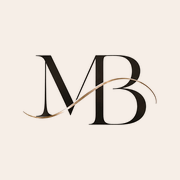
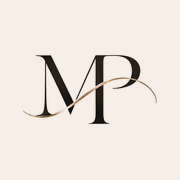
Nouvelle identité : « Mélanie Photographie » et monogramme MP
- Le site s'appelle désormais « Mélanie Photographie » : config, titres,
  descriptions, en-tête, accueil, pied de page, JSON-LD, llms.txt,
  manifeste, textes alternatifs des photos, page Mon univers.
- Monogramme MB → MP : le B est devenu un P (même hampe, même boucle
  haute, pied symétrisé) dans le monogramme, le logo rond, l'image de
  partage et les icônes du site. Fichiers renommés (monogramme-mp,
  logo-mp-photographie).
- Pages légales : le nom de famille est remplacé par un champ
  « [À compléter : prénom et nom] », obligatoire pour l'éditeur du site.
- Classe .prose-mb renommée .prose-mp.

Claude-Session: https://claude.ai/code/session_01C5YcTmXuq4d5R7qKZMAnsd

diff --git a/resources/js/pages/Accueil.vue b/resources/js/pages/Accueil.vue
@@ -43,7 +43,7 @@ const mosaique = computed(() => (props.photos.mosaique.length ? props.photos.mos
 <template>
     <Seo
         titre="Photographe grossesse, nouveau-né & famille à Dijon"
-        :description="`Mélanie Brieu, photographe grossesse, nouveau-né et famille à Dijon et Chenôve. Des images douces et naturelles pour garder vos plus beaux moments de vie. Offre de lancement dès ${euros(prixMini)}.`"
+        :description="`Mélanie Photographie : photographe grossesse, nouveau-né et famille à Dijon et Chenôve. Des images douces et naturelles pour garder vos plus beaux moments de vie. Offre de lancement dès ${euros(prixMini)}.`"
         :json-ld="entrepriseJsonLd(site)"
     />
 
@@ -53,9 +53,10 @@ const mosaique = computed(() => (props.photos.mosaique.length ? props.photos.mos
             <div class="relative order-2 flex items-center px-5 py-16 sm:px-12 lg:order-1 lg:py-20">
                 <Fleur variante="gypsophile" class="absolute -top-8 -left-12 -z-10 w-44 opacity-80 sm:w-60" />
                 <div class="mx-auto max-w-lg text-center lg:text-left">
-                    <img src="/images/marque/monogramme-mb.webp" width="480" height="253" alt="" class="mx-auto h-14 w-auto lg:mx-0" />
+                    <img src="/images/marque/monogramme-mp.webp" width="480" height="252" alt="" class="mx-auto h-14 w-auto lg:mx-0" />
                     <h1 class="mt-8">
-                        <span class="block font-serif text-[2.9rem] leading-[1.05] tracking-[0.16em] text-cacao-800 uppercase sm:text-6xl"><span class="block">Mélanie</span><span class="block">Brieu</span></span>
+                        <span class="block font-serif text-[2.9rem] leading-[1.05] tracking-[0.16em] text-cacao-800 uppercase sm:text-6xl">Mélanie</span>
+                        <span class="manuscrit mt-1 block text-[3.4rem] text-cacao-700 sm:text-[4.4rem]">Photographie</span>
                         <span class="mt-5 block font-sans text-[0.8rem] leading-relaxed font-normal tracking-[0.3em] text-balance text-taupe-600 uppercase sm:text-sm">
                             Photographe grossesse, nouveau-né &amp; famille
                         </span>

diff --git a/resources/js/components/SiteHeader.vue b/resources/js/components/SiteHeader.vue
@@ -48,11 +48,11 @@ onBeforeUnmount(() => {
         :class="defile ? 'border-creme-300 bg-creme-100/92 shadow-[0_10px_30px_-24px_rgba(75,52,40,0.5)] backdrop-blur-md' : 'border-transparent bg-creme-100'"
     >
         <div class="conteneur flex h-20 max-w-7xl items-center justify-between gap-6">
-            <Link :href="route('accueil')" class="flex shrink-0 items-center gap-3" aria-label="Mélanie Brieu, accueil">
-                <img src="/images/marque/monogramme-mb.webp" width="480" height="253" alt="" class="h-8 w-auto sm:h-9" />
+            <Link :href="route('accueil')" class="flex shrink-0 items-center gap-3" aria-label="Mélanie Photographie, accueil">
+                <img src="/images/marque/monogramme-mp.webp" width="480" height="252" alt="" class="h-8 w-auto sm:h-9" />
                 <span class="leading-none">
-                    <span class="block font-serif text-[1.02rem] tracking-[0.26em] text-cacao-800 uppercase sm:text-lg">Mélanie Brieu</span>
-                    <span class="mt-1.5 block text-[0.58rem] tracking-[0.36em] text-taupe-500 uppercase">Photographe · Dijon</span>
+                    <span class="block font-serif text-[1.02rem] tracking-[0.26em] text-cacao-800 uppercase sm:text-lg">Mélanie</span>
+                    <span class="mt-1.5 block text-[0.58rem] tracking-[0.36em] text-taupe-500 uppercase">Photographie · Dijon</span>
                 </span>
             </Link>
 
@@ -108,7 +108,7 @@ onBeforeUnmount(() => {
         </div>
 
         <nav aria-label="Navigation mobile" class="relative flex flex-1 flex-col items-center justify-center gap-10 px-6 pb-16">
-            <img src="/images/marque/monogramme-mb.webp" width="480" height="253" alt="" class="h-12 w-auto" />
+            <img src="/images/marque/monogramme-mp.webp" width="480" height="252" alt="" class="h-12 w-auto" />
             <ul class="space-y-5 text-center">
                 <li v-for="lien in navigation" :key="lien.route">
                     <Link

diff --git a/resources/js/pages/Legal/MentionsLegales.vue b/resources/js/pages/Legal/MentionsLegales.vue
@@ -11,13 +11,13 @@ const site = useSite();
 <template>
     <PageLegale
         titre="Mentions légales"
-        description="Mentions légales du site melanie-photographie.fr : éditeur, hébergeur, propriété intellectuelle des photographies de Mélanie Brieu."
+        description="Mentions légales du site melanie-photographie.fr : éditeur, hébergeur, propriété intellectuelle des photographies de Mélanie Photographie."
         mise-a-jour="septembre 2026"
     >
         <h2>Éditeur du site</h2>
         <p>
-            Le site <strong>melanie-photographie.fr</strong> est édité par <strong>{{ site.nom }}</strong>, entrepreneuse individuelle exerçant sous le nom commercial
-            « {{ site.marque }} ».
+            Le site <strong>melanie-photographie.fr</strong> est édité par <span class="a-completer">[À compléter : prénom et nom]</span>, entrepreneuse individuelle exerçant sous le nom commercial
+            « {{ site.nom }} ».
         </p>
         <ul>
             <li>Statut : <span class="a-completer">[À compléter : statut, ex. micro-entreprise]</span></li>
@@ -33,7 +33,7 @@ const site = useSite();
                 <span v-else class="a-completer">[À compléter : numéro de téléphone]</span>
             </li>
         </ul>
-        <p>Directrice de la publication : {{ site.nom }}.</p>
+        <p>Directrice de la publication : <span class="a-completer">[À compléter : prénom et nom]</span>.</p>
 
         <h2>Hébergement</h2>
         <p><span class="a-completer">[À compléter : nom, adresse et téléphone de l’hébergeur]</span></p>

diff --git a/resources/css/app.css b/resources/css/app.css
@@ -1,6 +1,6 @@
 @import 'tailwindcss';
 
-/* Direction artistique MB Photographie : crème, poudre, cacao et touches dorées. */
+/* Direction artistique Mélanie Photographie : crème, poudre, cacao et touches dorées. */
 @theme {
     --font-sans: 'Jost', ui-sans-serif, system-ui, sans-serif;
     --font-serif: 'Gilda Display', ui-serif, Georgia, serif;
@@ -89,40 +89,40 @@
 
 @layer components {
     /* Contenus longs (pages légales, réponses de FAQ). */
-    .prose-mb {
+    .prose-mp {
         @apply texte-courant;
     }
 
-    .prose-mb :where(p, ul, ol) + :where(p, ul, ol) {
+    .prose-mp :where(p, ul, ol) + :where(p, ul, ol) {
         @apply mt-4;
     }
 
-    .prose-mb :where(h2) {
+    .prose-mp :where(h2) {
         @apply mt-12 mb-4 text-2xl;
     }
 
-    .prose-mb :where(h3) {
+    .prose-mp :where(h3) {
         @apply mt-8 mb-3 text-xl;
     }
 
-    .prose-mb :where(ul) {
+    .prose-mp :where(ul) {
         @apply list-none space-y-2 pl-0;
     }
 
-    .prose-mb :where(ul > li) {
+    .prose-mp :where(ul > li) {
         @apply relative pl-6;
     }
 
-    .prose-mb :where(ul > li)::before {
+    .prose-mp :where(ul > li)::before {
         content: '♡';
         @apply absolute top-0 left-0 text-sm text-or-500;
     }
 
-    .prose-mb :where(a) {
+    .prose-mp :where(a) {
         @apply text-cacao-800 underline decoration-or-400 decoration-1 underline-offset-4 transition-colors hover:text-brique;
     }
 
-    .prose-mb :where(strong) {
+    .prose-mp :where(strong) {
         @apply font-normal text-cacao-900;
     }
 

diff --git a/resources/js/components/SiteFooter.vue b/resources/js/components/SiteFooter.vue
@@ -39,8 +39,8 @@ const colonnes = [
         <div class="conteneur py-16 sm:py-20">
             <div class="grid gap-12 lg:grid-cols-[1.3fr_1fr_1fr_1.2fr]">
                 <div class="text-center lg:text-left">
-                    <Link :href="route('accueil')" class="inline-block" aria-label="MB Photographie, accueil">
-                        <img src="/images/marque/logo-mb-photographie.webp" width="624" height="405" alt="MB Photographie" loading="lazy" class="w-52" />
+                    <Link :href="route('accueil')" class="inline-block" aria-label="Mélanie Photographie, accueil">
+                        <img src="/images/marque/logo-mp-photographie.webp" width="624" height="405" alt="Mélanie Photographie" loading="lazy" class="w-52" />
                     </Link>
                 </div>
 
@@ -77,7 +77,7 @@ const colonnes = [
 
         <div class="border-t border-creme-300">
             <div class="conteneur flex flex-col items-center justify-between gap-3 py-6 text-xs tracking-wide text-taupe-500 sm:flex-row">
-                <p>© {{ annee }} {{ site.nom }} · {{ site.marque }}</p>
+                <p>© {{ annee }} {{ site.nom }}</p>
                 <ul class="flex flex-wrap justify-center gap-x-5 gap-y-1">
                     <li><Link :href="route('mentions-legales')" class="hover:text-cacao-800">Mentions légales</Link></li>
                     <li><Link :href="route('confidentialite')" class="hover:text-cacao-800">Confidentialité</Link></li>

diff --git a/resources/js/pages/Legal/Cgv.vue b/resources/js/pages/Legal/Cgv.vue
@@ -13,13 +13,13 @@ const site = useSite();
 <template>
     <PageLegale
         titre="Conditions générales de vente"
-        description="Conditions générales de vente des séances photo grossesse, nouveau-né et famille de Mélanie Brieu, photographe à Dijon : réservation, paiement, report, livraison, droits."
+        description="Conditions générales de vente des séances photo grossesse, nouveau-né et famille de Mélanie Photographie, à Dijon : réservation, paiement, report, livraison, droits."
         mise-a-jour="septembre 2026"
     >
         <h2>1. Objet</h2>
         <p>
-            Les présentes conditions générales de vente (CGV) s’appliquent aux prestations de photographie proposées par {{ site.nom }}, {{ site.marque }},
-            <span class="a-completer">[À compléter : statut, SIRET, adresse]</span>, ci-après « la photographe », à tout client particulier. Toute réservation vaut
+            Les présentes conditions générales de vente (CGV) s’appliquent aux prestations de photographie proposées par {{ site.nom }},
+            <span class="a-completer">[À compléter : prénom et nom, statut, SIRET, adresse]</span>, ci-après « la photographe », à tout client particulier. Toute réservation vaut
             acceptation des présentes CGV.
         </p>
 

diff --git a/resources/js/components/Seo.vue b/resources/js/components/Seo.vue
@@ -3,7 +3,7 @@ import { Head, usePage } from '@inertiajs/vue3';
 import { computed } from 'vue';
 
 const props = defineProps({
-    // Titre sans suffixe : « | Mélanie Brieu » est ajouté par app.js.
+    // Titre sans suffixe : « | Mélanie Photographie » est ajouté par app.js.
     titre: { type: String, required: true },
     description: { type: String, required: true },
     image: { type: String, default: '/images/marque/og-image.jpg' },
@@ -32,7 +32,7 @@ const scripts = computed(() =>
         <link head-key="canonical" rel="canonical" :href="page.props.canonical" />
         <meta head-key="og:type" property="og:type" content="website" />
         <meta head-key="og:locale" property="og:locale" content="fr_FR" />
-        <meta head-key="og:site_name" property="og:site_name" :content="`${site.nom} Photographie`" />
+        <meta head-key="og:site_name" property="og:site_name" :content="site.nom" />
         <meta head-key="og:title" property="og:title" :content="`${titre} | ${site.nom}`" />
         <meta head-key="og:description" property="og:description" :content="description" />
         <meta head-key="og:url" property="og:url" :content="page.props.canonical" />

diff --git a/resources/js/pages/Legal/Confidentialite.vue b/resources/js/pages/Legal/Confidentialite.vue
@@ -8,7 +8,7 @@ const site = useSite();
 <template>
     <PageLegale
         titre="Politique de confidentialité"
-        description="Comment Mélanie Brieu, photographe à Dijon, collecte, utilise et protège vos données personnelles, et comment exercer vos droits."
+        description="Comment Mélanie Photographie, à Dijon, collecte, utilise et protège vos données personnelles, et comment exercer vos droits."
         mise-a-jour="septembre 2026"
     >
         <p>
@@ -18,7 +18,7 @@ const site = useSite();
 
         <h2>Responsable du traitement</h2>
         <p>
-            {{ site.nom }} ({{ site.marque }}), <span class="a-completer">[À compléter : adresse professionnelle]</span>, {{ site.code_postal }} {{ site.commune }} —
+            {{ site.nom }} (<span class="a-completer">[À compléter : prénom et nom]</span>), <span class="a-completer">[À compléter : adresse professionnelle]</span>, {{ site.code_postal }} {{ site.commune }} —
             <a :href="`mailto:${site.email}`">{{ site.email }}</a>.
         </p>
 

diff --git a/resources/js/data/seo.js b/resources/js/data/seo.js
@@ -16,11 +16,11 @@ export const faqJsonLd = (questions) => ({
 export const entrepriseJsonLd = (site) => ({
     '@type': 'LocalBusiness',
     '@id': `${site.url}/#entreprise`,
-    name: `${site.nom} – ${site.marque}`,
+    name: site.nom,
     description: `${site.metier} à ${site.ville} et alentours.`,
     url: `${site.url}/`,
     image: `${site.url}/images/marque/og-image.jpg`,
-    logo: `${site.url}/images/marque/logo-mb-photographie.png`,
+    logo: `${site.url}/images/marque/logo-mp-photographie.png`,
     email: site.email,
     ...(site.telephone ? { telephone: site.telephone } : {}),
     priceRange: `${euros(Math.min(...prix))} – ${euros(Math.max(...prix))}`,
@@ -32,7 +32,6 @@ export const entrepriseJsonLd = (site) => ({
         addressCountry: 'FR',
     },
     areaServed: [site.ville, site.commune, site.departement].map((name) => ({ '@type': 'Place', name })),
-    founder: { '@type': 'Person', name: site.nom, jobTitle: 'Photographe' },
     sameAs: [site.instagramUrl],
 });
 

diff --git a/resources/js/pages/Tarifs.vue b/resources/js/pages/Tarifs.vue
@@ -62,7 +62,7 @@ const engagements = [
             <FilAriane :liens="[{ libelle: 'Tarifs' }]" />
 
             <div class="mt-10 text-center">
-                <img src="/images/marque/monogramme-mb.webp" width="480" height="253" alt="" class="mx-auto h-12 w-auto" />
+                <img src="/images/marque/monogramme-mp.webp" width="480" height="252" alt="" class="mx-auto h-12 w-auto" />
                 <TitreSection class="mt-4" balise="h1" surtitre="Offre de lancement" coeurs titre="Tarifs" majuscules manuscrit="Des souvenirs vrais, remplis d’émotions" />
                 <p class="surtitre mt-8 flex flex-wrap items-center justify-center gap-x-4 gap-y-2">
                     <span>Grossesse</span><span class="text-or-500">·</span><span>Nouveau-né</span><span class="text-or-500">·</span><span>Famille</span>

diff --git a/resources/js/pages/APropos.vue b/resources/js/pages/APropos.vue
@@ -30,7 +30,7 @@ const chapitres = [
     {
         titre: 'Mon histoire',
         paragraphes: [
-            'J’ai créé MB Photographie avec une envie toute simple : garder une trace des moments qui passent trop vite. Ces instants où tout change, où une famille s’agrandit, où l’on devient parent, où les enfants grandissent sans prévenir.',
+            'J’ai créé Mélanie Photographie avec une envie toute simple : garder une trace des moments qui passent trop vite. Ces instants où tout change, où une famille s’agrandit, où l’on devient parent, où les enfants grandissent sans prévenir.',
             // À personnaliser : comment la photographie est entrée dans ta vie, ce qui t'a décidée à te lancer.
         ],
     },

diff --git a/resources/js/pages/Grossesse.vue b/resources/js/pages/Grossesse.vue
@@ -24,7 +24,7 @@ const route = inject('route');
 const site = useSite();
 const seance = seances.grossesse;
 
-const description = `Séance photo grossesse à Dijon et alentours avec Mélanie Brieu : une séance douce et naturelle, en extérieur ou à domicile, prêt de tenues inclus. ${euros(seance.prix)} (offre de lancement).`;
+const description = `Séance photo grossesse à Dijon et alentours avec Mélanie Photographie : une séance douce et naturelle, en extérieur ou à domicile, prêt de tenues inclus. ${euros(seance.prix)} (offre de lancement).`;
 
 const jsonLd = computed(() => [
     serviceJsonLd(site.value, { nom: 'Séance photo grossesse', description, prix: seance.prix, url: route('grossesse') }),
